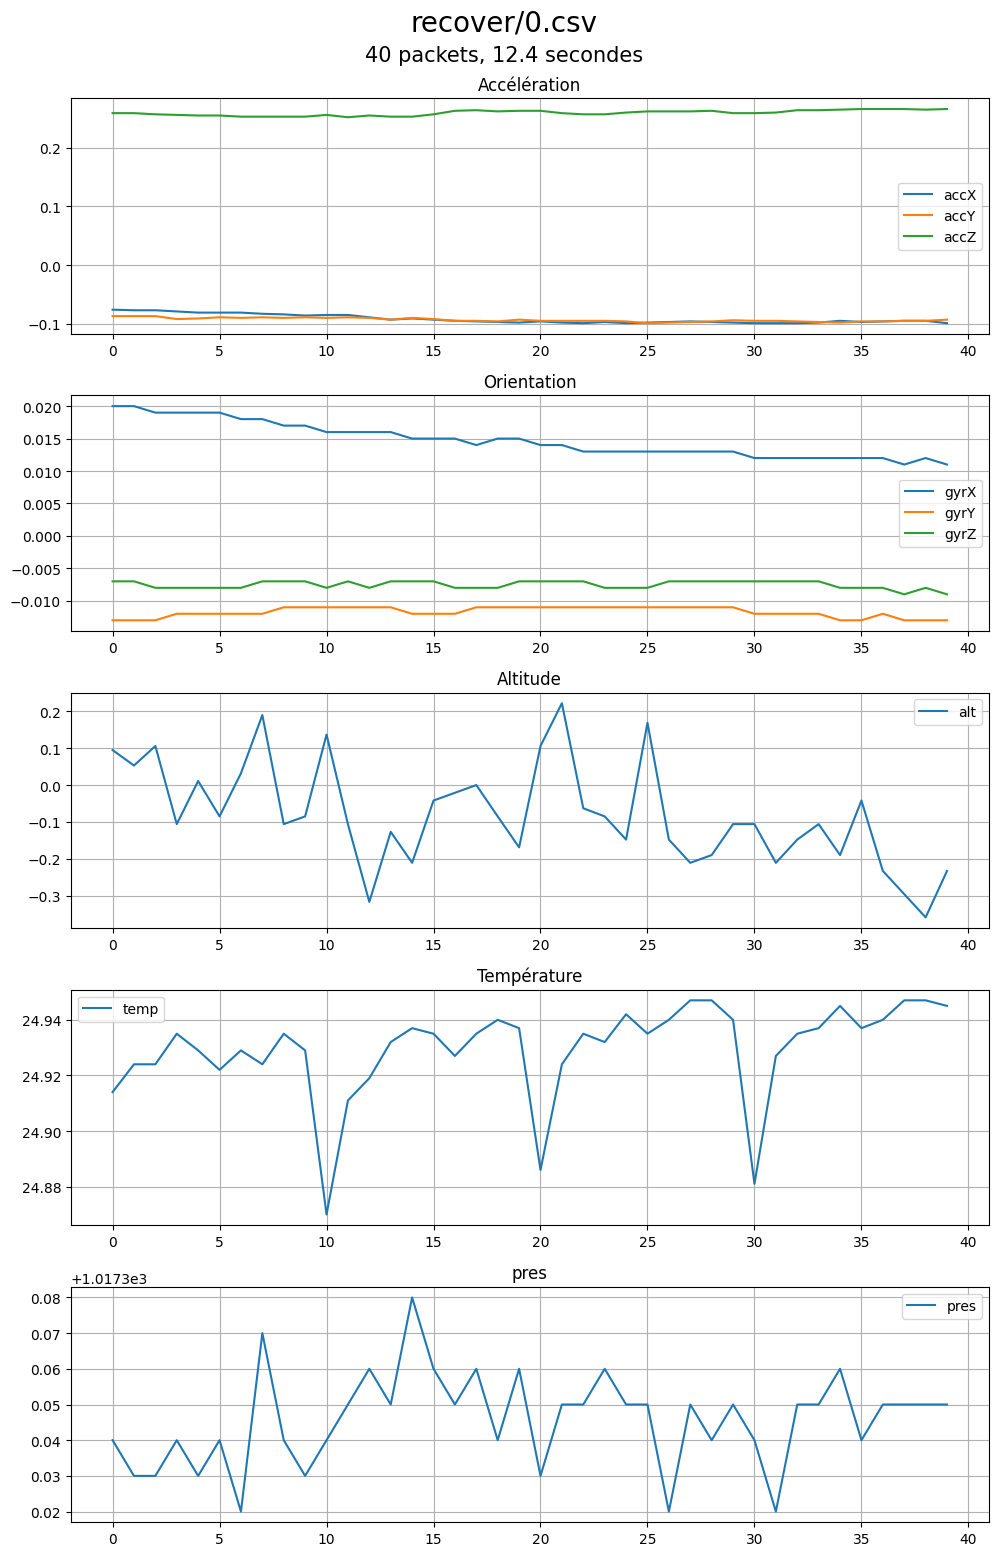
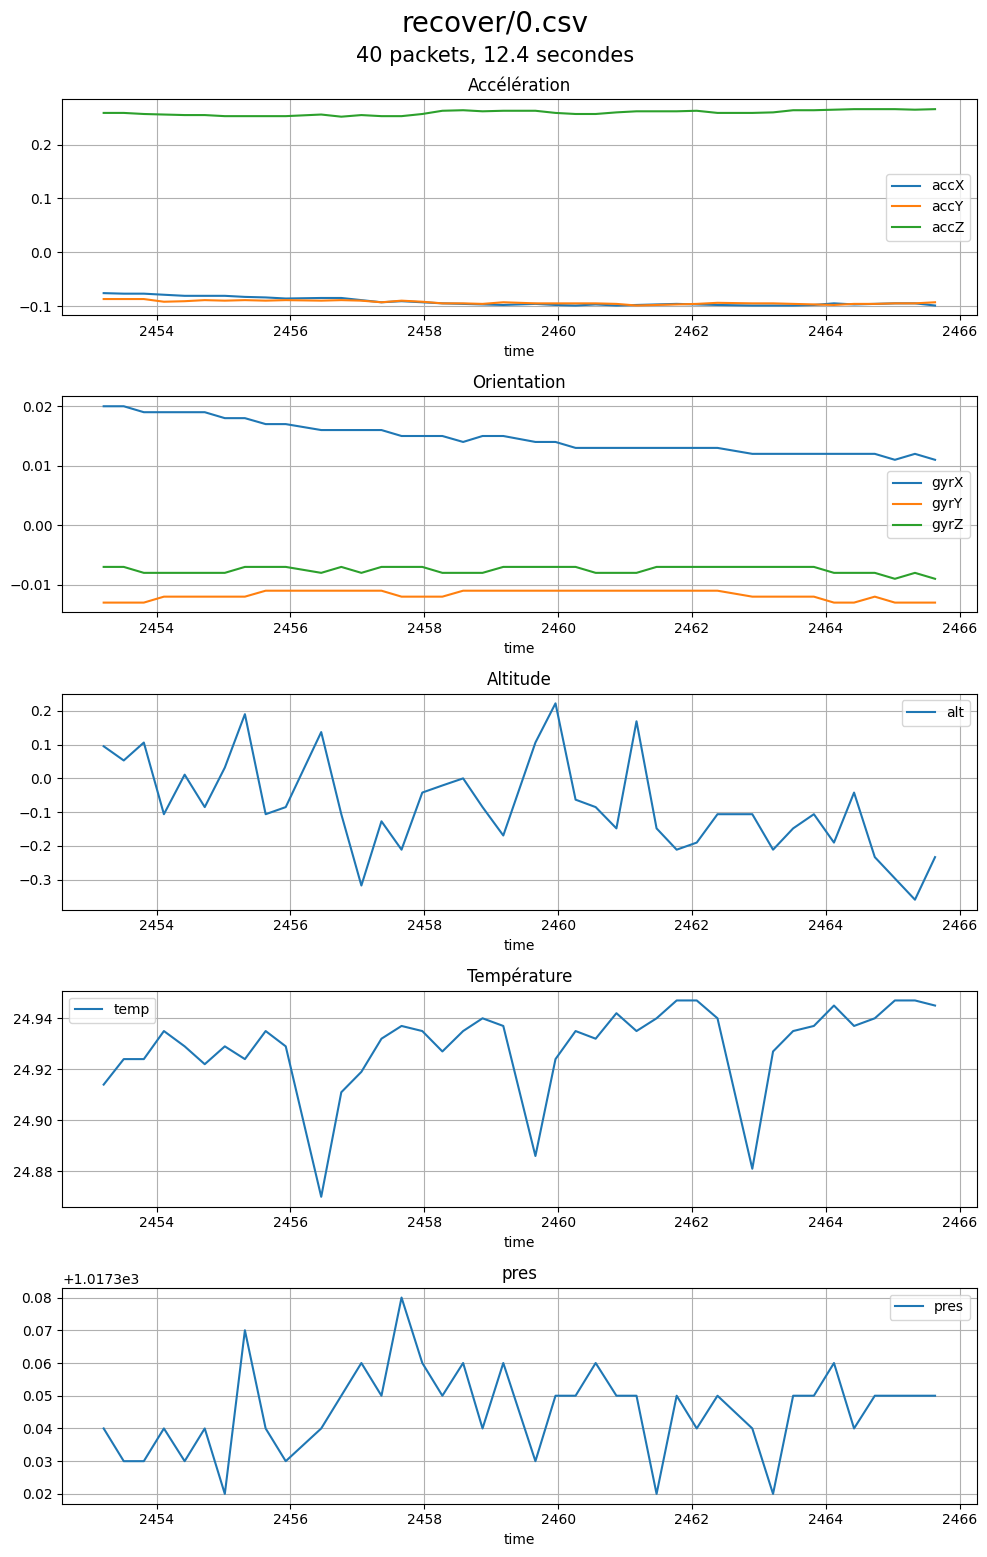
added time index on graph

diff --git a/graph.py b/graph.py
@@ -7,14 +7,14 @@ import pandas as pd
 import matplotlib.pyplot as plt
 
 def graph(data_file):
-    df = pd.read_csv(data_file,)
+    df = pd.read_csv(data_file, index_col='time')
     
     fig, axes = plt.subplots(nrows=5, ncols=1)
     fig.set_size_inches((10, 15))
     fig.set_layout_engine('tight')
 
     fig.text(.5, 1.02, data_file, transform=fig.transFigure, horizontalalignment='center', fontsize=20)
-    time = df.loc[df.index[-1], 'time'] - df.loc[df.index[0], 'time']
+    time = df.index[-1] - df.index[0]
     fig.text(.5, 1, f'{len(df)} packets, {round(time, 1)} secondes', transform=fig.transFigure, horizontalalignment='center', fontsize=15)
 
     df[['accX', 'accY', 'accZ']].plot(title='Accélération', grid=True, ax=axes[0])
